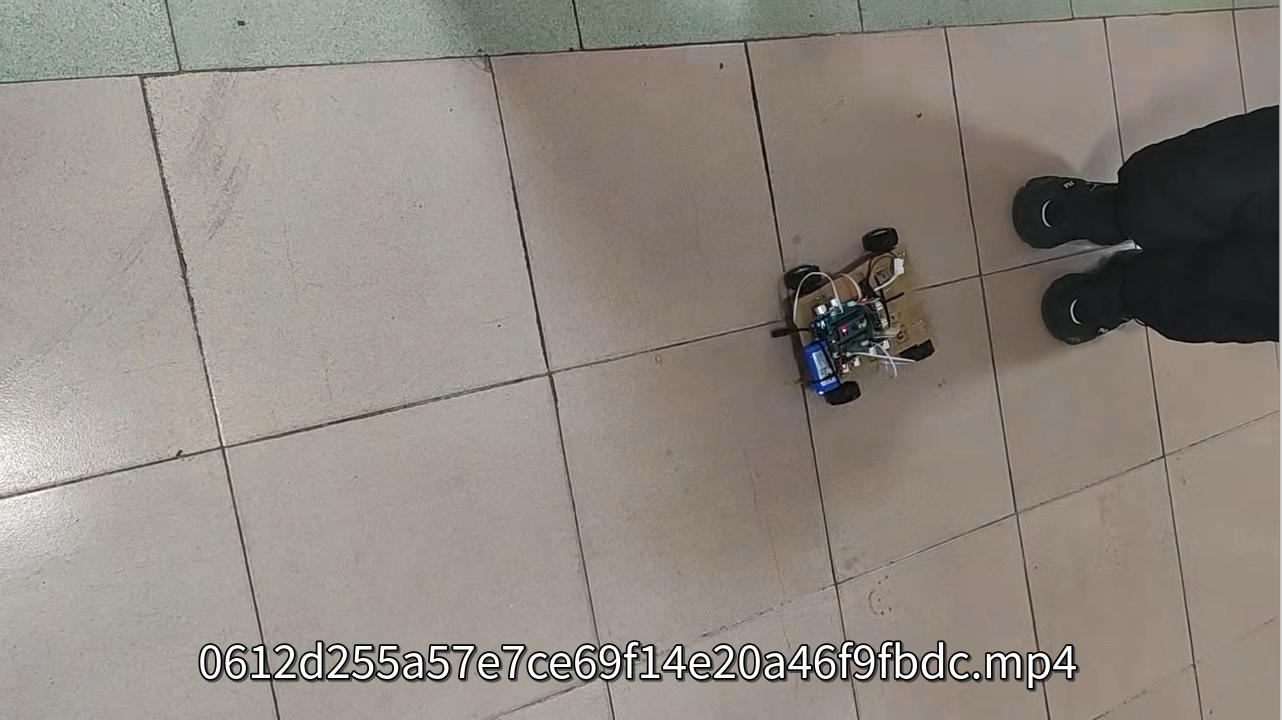
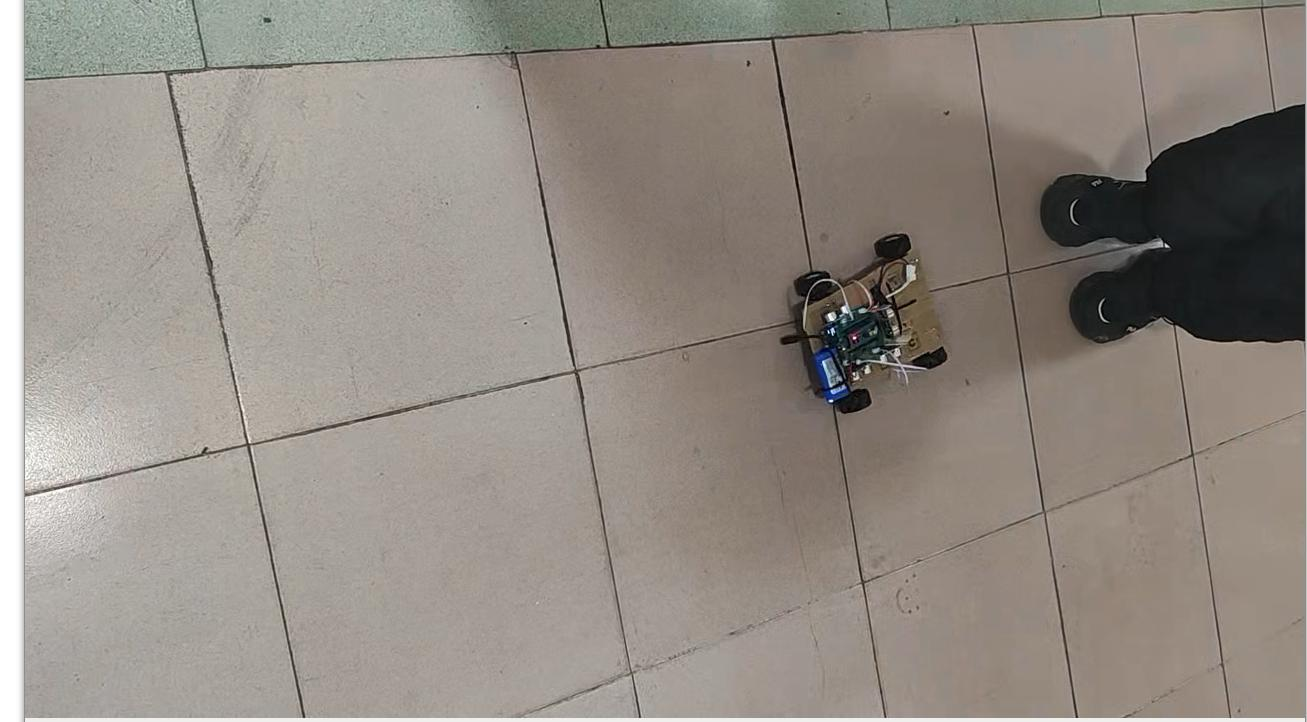
fix video missing -v2

diff --git a/README.md b/README.md
@@ -105,7 +105,7 @@
     - TASK2.3.3：**让你的桌宠稍微智能一点的一定程度上的粘人** 
       我们希望你离它很远的时候它可以很快过来，在跟过来的时候速度逐渐下降，实现**平滑**的运动。可见以下VCR。
       <!-- <video src="docs/Software/ultrasonic-pid.mp4" controls width="100%"></video> -->
-     [![超声波PID控制演示](https://github.com/HUSTjmk/focus-winter-camp-embedded-solutions/raw/main/docs/Software/ultrasonic-pid-cover.jpg)](https://github.com/HUSTjmk/focus-winter-camp-embedded-solutions/raw/main/docs/Software/ultrasonic-pid.mp4)
+     [![超声波PID控制演示](https://github.com/HUSTjmk/focus-winter-camp-embedded-solutions/raw/main/docs/Software/ultrasonic-pid.jpg)](https://github.com/HUSTjmk/focus-winter-camp-embedded-solutions/raw/main/docs/Software/ultrasonic-pid.mp4)
   - TASK2.4：**Sensor**  
     我们要使用的是PAJ7620U2手势传感器模块，它可以识别基础的手势，丰富我们与桌宠的交互方式
     - Task2.4.0：**看看学长为你们准备的资料** 
